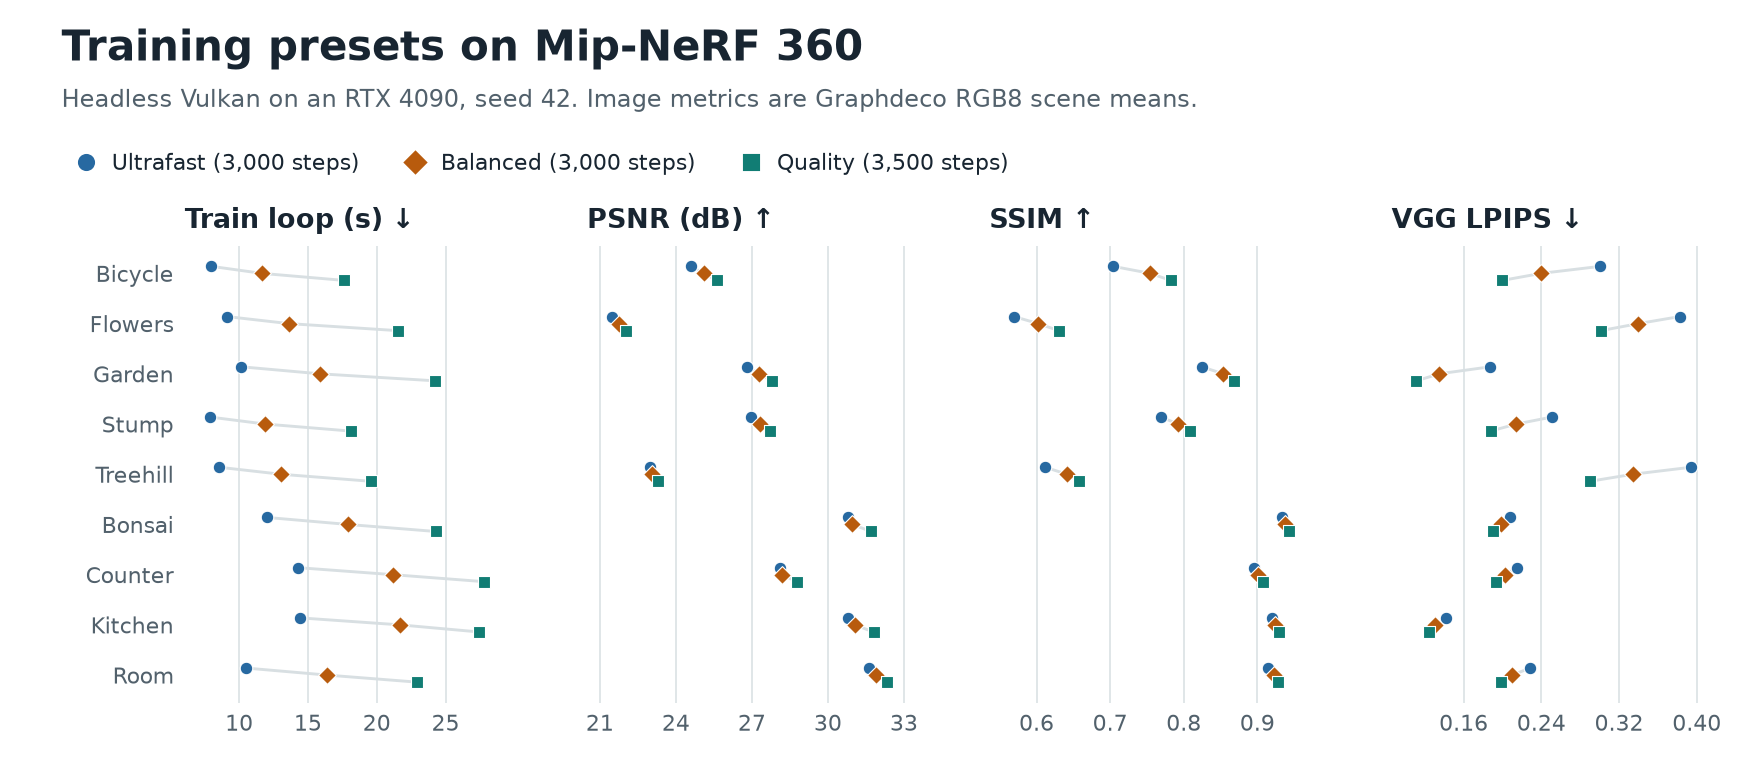
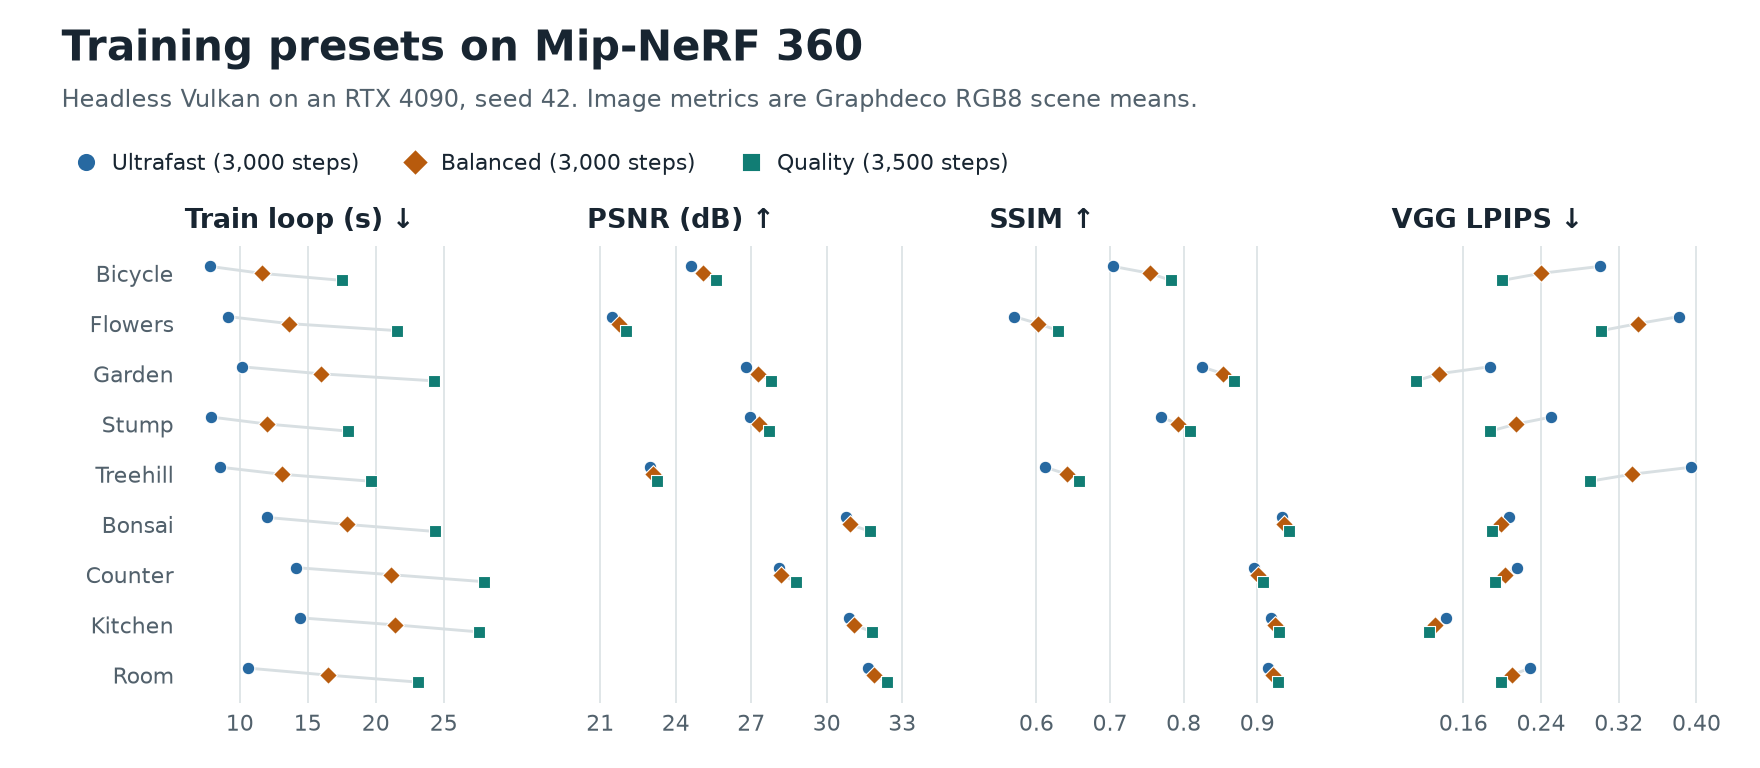
benchmarked again on 4090 + quality+ preset included

Changed region(s): [[0.4688, 0.8125, 0.5, 0.8438], [0.4688, 0.6562, 0.5, 0.6875], [0.4062, 0.4688, 0.4375, 0.5]]

diff --git a/scripts/plots/plot_qualityplus_convergence.py b/scripts/plots/plot_qualityplus_convergence.py
@@ -1,0 +1,104 @@
+# Copyright (c) 2026 Electronic Arts Inc. All rights reserved.
+
+"""Plot Quality+ training-view convergence and its held-out PSNR change from fixed Quality."""
+import argparse
+import csv
+import json
+import math
+from pathlib import Path
+
+from matplotlib.figure import Figure
+
+from plot_preset_results import HELDOUT_VIEWS
+
+ROOT = Path(__file__).resolve().parents[2]
+
+
+def scene_rows(path, preset):
+    with path.open(encoding="utf-8-sig", newline="") as stream:
+        rows = [row for row in csv.DictReader(stream) if row["preset"] == preset]
+    by_scene = {row["scene"]: row for row in rows}
+    if len(rows) != len(HELDOUT_VIEWS) or {
+        scene: int(row["heldout_views"]) for scene, row in by_scene.items()
+    } != HELDOUT_VIEWS:
+        raise ValueError(f"{path} needs one {preset} run for each standard held-out scene")
+    if any(not math.isfinite(float(row["psnr_db"])) for row in rows):
+        raise ValueError(f"Missing or invalid held-out PSNR in {path}")
+    return by_scene
+
+
+def probe_trace(run, row, start):
+    report = json.loads((run / "run_report.json").read_text(encoding="utf-8"))
+    with (run / "log.jsonl").open(encoding="utf-8") as stream:
+        probes = [event for event in map(json.loads, stream) if event["event"] == "convergence_probe"]
+    steps = int(row["steps"])
+    if (report["stop_reason"] != "plateau" or report["iters_completed"] != steps
+            or report["device"]["adapter_name"] != row["gpu"] or report["cli_args"]["preset"] != "quality+"
+            or report["cli_args"]["seed"] != int(row["seed"]) or report["scene"]["n_test"] != int(row["heldout_views"])
+            or not math.isclose(report["timing"]["train_wall_s"], float(row["train_loop_s"]))):
+        raise ValueError(f"{run} does not match its scored Quality+ run")
+    scene = report["scene"]
+    train_count = scene["n_train"]
+    expected_steps = range(start, steps + 1, max(100, 4 * train_count))
+    if not probes or [p["iter"] for p in probes] != list(expected_steps) or probes[-1]["iter"] != steps:
+        raise ValueError(f"Missing convergence checks in {run}")
+    cameras = probes[0]["train_indices"]
+    scores = [p["train_psnr_srgb"] for p in probes]
+    if (not all(map(math.isfinite, scores)) or probes[-1]["stale_checks"] != 3
+            or len(set(cameras)) != min(8, train_count) or set(cameras).intersection(scene["test_indices"])
+            or any(p["train_indices"] != cameras for p in probes)):
+        raise ValueError(f"Invalid training-view convergence trace in {run}")
+    return [(step - start) / train_count for step in expected_steps], [score - scores[0] for score in scores]
+
+
+def plot_convergence(presets_path, plus_path, sweep, output):
+    fixed = scene_rows(presets_path, "quality")
+    plus = scene_rows(plus_path, "quality+")
+    cards = {(row["gpu"], row["seed"]) for row in (*fixed.values(), *plus.values())}
+    starts = {int(row["steps"]) for row in fixed.values()}
+    if len(cards) != 1 or len(starts) != 1:
+        raise ValueError("Both CSVs must use one GPU and seed, and Quality must have a fixed step count")
+    gpu, seed = cards.pop()
+    start = starts.pop()
+    for scene in fixed:
+        for field in ("train_width", "train_height", "eval_width", "eval_height", "metric_source"):
+            if plus[scene][field] != fixed[scene][field]:
+                raise ValueError(f"Mismatched {field} for {scene}")
+
+    fig = Figure(figsize=(11.5, 4.8), layout="constrained")
+    trace, heldout = fig.subplots(1, 2)
+    fig.suptitle(f"Where Quality+ stops on Mip-NeRF 360 · {gpu.removeprefix('NVIDIA GeForce ')}",
+                 weight="bold", fontsize=17)
+    trace.set_title("Training views used for stopping")
+    for scene, color in (("bicycle", "#196b9b"), ("room", "#b85524")):
+        run = ROOT / "outputs/train" / f"sweep_{sweep}_{scene}_{seed}"
+        passes, gain = probe_trace(run, plus[scene], start)
+        trace.plot(passes, gain, color=color, label=scene.title(), lw=2)
+        trace.scatter(passes[-1], gain[-1], color=color, s=30, zorder=3)
+    trace.set_xlabel(f"Camera passes after step {start:,}")
+    trace.set_ylabel(f"Training PSNR gain since step {start:,} (dB)")
+    trace.legend(frameon=False)
+    trace.grid(axis="y", color="#eeeeee")
+
+    deltas = {scene: float(plus[scene]["psnr_db"]) - float(row["psnr_db"]) for scene, row in fixed.items()}
+    scenes = sorted(deltas, key=deltas.get)
+    heldout.barh([s.title() for s in scenes], [deltas[s] for s in scenes],
+                 color=["#21725c" if deltas[s] >= 0 else "#af5046" for s in scenes])
+    heldout.axvline(0, color="#303940", lw=1)
+    heldout.set_title("All official held-out views")
+    heldout.set_xlabel("Quality+ minus fixed Quality PSNR (dB)")
+    heldout.grid(axis="x", color="#eeeeee")
+    for axis in (trace, heldout):
+        axis.set_axisbelow(True)
+        axis.spines[["top", "right"]].set_visible(False)
+    fig.savefig(output, dpi=160, facecolor="white")
+
+
+if __name__ == "__main__":
+    parser = argparse.ArgumentParser(description=__doc__)
+    parser.add_argument("--presets", type=Path, required=True, help="Fixed-budget preset CSV")
+    parser.add_argument("--quality-plus", type=Path, required=True, help="Quality+ CSV for the same GPU and seed")
+    parser.add_argument("--sweep", required=True, help="Quality+ sweep name under outputs/eval_sweep")
+    parser.add_argument("--output", type=Path, required=True, help="Destination figure, e.g. a .png file")
+    args = parser.parse_args()
+    plot_convergence(args.presets, args.quality_plus, args.sweep, args.output)

diff --git a/docs/benchmarks.md b/docs/benchmarks.md
@@ -2,28 +2,31 @@
 
 ## RTX 4090 presets
 
-On the **RTX 4090 24 GB**, Quality averaged **27.89 dB in 22.61 s** with **2.10M final splats**. Compared with the previous Quality sweep on the same card, PSNR improved on all nine scenes by an average of 0.108 dB, final splat count fell 31.5%, and loop-end GPU memory fell 21.7%. [Current per-scene measurements](NVIDIA_GeForce_RTX_4090_presets_current.csv) · [Original per-scene measurements](NVIDIA_GeForce_RTX_4090_presets.csv)
+On the **RTX 4090 24 GB**, Quality averaged **27.90 dB in 22.68 s** with **2.10M final splats**. Compared with the original 3,000-step Quality sweep on the same card, PSNR improved on all nine scenes by an average of 0.113 dB, final splat count fell 31.6%, and loop-end GPU memory fell 21.7%. [Current per-scene measurements](NVIDIA_GeForce_RTX_4090_presets_current.csv) · [Original per-scene measurements](NVIDIA_GeForce_RTX_4090_presets.csv)
 
 | Preset | Steps | Train loop | PSNR ↑ | SSIM ↑ | VGG LPIPS ↓ | Final splats | VRAM at loop end |
 | --- | ---: | ---: | ---: | ---: | ---: | ---: | ---: |
-| Ultrafast | 3,000 | 10.54 s | 27.12 dB | 0.7935 | 0.2564 | 1.43M | 5.29 GiB |
-| Balanced | 3,000 | 15.92 s | 27.41 dB | 0.8143 | 0.2229 | 2.07M | 2.81 GiB |
-| **Quality** | **3,500** | **22.61 s** | **27.89 dB** | **0.8285** | **0.1996** | **2.10M** | **4.81 GiB** |
+| Ultrafast | 3,000 | 10.51 s | 27.13 dB | 0.7935 | 0.2564 | 1.43M | 5.29 GiB |
+| Balanced | 3,000 | 15.91 s | 27.40 dB | 0.8141 | 0.2228 | 2.07M | 2.81 GiB |
+| **Quality** | **3,500** | **22.68 s** | **27.90 dB** | **0.8285** | **0.1996** | **2.10M** | **4.81 GiB** |
+| Quality+ | 17,044 avg. | 122.66 s | 28.227 dB | 0.8317 | 0.1909 | 2.10M | 4.81 GiB |
 | Quality (previous) | 3,000 | 23.24 s | 27.79 dB | 0.8274 | 0.2011 | 3.07M | 6.14 GiB |
 
-Quality gained the most PSNR on Bonsai (+0.237 dB) and the least on Stump (+0.002 dB). SSIM improved on seven scenes, with small decreases on Stump (−0.00030) and Treehill (−0.00061). VGG LPIPS improved on eight scenes and rose by 0.00043 on Treehill. Six scenes trained faster. Counter, Kitchen and Room took 0.14, 0.23 and 0.02 s longer, respectively.
+Quality gained the most PSNR on Bonsai (+0.258 dB) and the least on Stump (+0.012 dB). SSIM improved on seven scenes, with small decreases on Stump (−0.00006) and Treehill (−0.00062). VGG LPIPS improved on seven scenes and rose slightly on Stump (+0.00001) and Treehill (+0.00021). Six scenes trained faster. Counter, Kitchen and Room took 0.31, 0.44 and 0.23 s longer, respectively.
 
-Quality's proposed splits exceeded the growth capacity at 11 of 27 structure updates. All nine runs reached their 75% retention target at step 2,100. All 27 runs across the three presets completed training and held-out rendering with zero sort overflows. Ultrafast and Balanced used their existing 3,000-step settings. They averaged 11.85 s and 17.31 s in the original sweep and 10.54 s and 15.92 s in this one, with mean PSNR changes of +0.021 and −0.010 dB, respectively.
+Quality's proposed splits exceeded the growth capacity at 11 of 27 structure updates. All nine runs reached their 75% retention target at step 2,100. All 27 fixed-budget runs completed training and held-out rendering with zero sort overflows. Ultrafast and Balanced used their existing 3,000-step settings. They averaged 11.85 s and 17.31 s in the original sweep and 10.51 s and 15.91 s in this one, with mean PSNR changes of +0.028 and −0.013 dB, respectively.
 
-Each preset trained once per scene at seed 42, using quarter resolution outdoors and half resolution indoors. The clock covers the headless Vulkan training loop and excludes loading, initialization, evaluation and export. VRAM is the trainer process’s local GPU memory sampled at loop end. Graphdeco scored 246 held-out RGB8 renders per preset. Each scene contributes equally to the means after averaging its held-out views.
+Quality+ reached its training-view plateau on all nine scenes, taking 8,652–21,996 steps. Compared with 3,500-step Quality, held-out PSNR rose by **0.326 dB** on average, with gains on six scenes. The four indoor scenes gained 0.687 dB on average and the five outdoor scenes gained 0.038 dB. SSIM improved on seven scenes and VGG LPIPS improved on all nine. The loop took 5.41× as long, including convergence checks. [Quality+ per-scene results](NVIDIA_GeForce_RTX_4090_qualityplus.csv) · [Convergence plot](../assets/qualityplus-convergence-4090.png) · [Stopping rule](usage.md#quality-convergence)
 
-Both sweeps used the same Lenovo workstation with a 32-core Threadripper PRO 9975WX, Windows 11 Enterprise, NVIDIA driver 610.88, SlangPy 0.42.0 and Python 3.11.9. Graphdeco evaluation used PyTorch 2.10.0+cu128 and torchvision 0.25.0+cu128. The current trainer revision is `da6b847`. [Current system record](NVIDIA_GeForce_RTX_4090_system_current.txt) · [Original system record](NVIDIA_GeForce_RTX_4090_system.txt) · [Reproduce the sweep](benchmark-rtx4090.md)
+Each preset trained once per scene at seed 42, using quarter resolution outdoors and half resolution indoors. The clock covers the headless Vulkan training loop and excludes loading, initialization, held-out evaluation and export. VRAM is the trainer process’s local GPU memory sampled at loop end. Graphdeco scored 246 held-out RGB8 renders per preset. Each scene contributes equally to the means after averaging its held-out views.
 
-![Training-loop time, PSNR, SSIM and VGG LPIPS by scene and preset on the RTX 4090](../assets/mipnerf360-rtx4090-presets.png)
+The sweeps used the same Lenovo workstation with a 32-core Threadripper PRO 9975WX, Windows 11 Enterprise, NVIDIA driver 610.88, SlangPy 0.42.0 and Python 3.11.9. Graphdeco evaluation used PyTorch 2.10.0+cu128 and torchvision 0.25.0+cu128. The current trainer revision is `d69f4f2`. [Current system record](NVIDIA_GeForce_RTX_4090_system_current.txt) · [Original system record](NVIDIA_GeForce_RTX_4090_system.txt) · [Reproduce the sweep](benchmark-rtx4090.md)
+
+![Training-loop time, PSNR, SSIM and VGG LPIPS by scene for the three fixed-budget presets on the RTX 4090](../assets/mipnerf360-rtx4090-presets.png)
 
 ### Pruning in Ultrafast and Balanced
 
-To test Quality’s post-growth pruning on the two 3,000-step presets, we retrained Bicycle and Kitchen at seed 42 with `--final-splat-fraction 0.75`. Each run used the corresponding default preset for all other training settings. Across those four pairs, pruning reduced final splat count by about 25% and shortened the measured loops by 0.28–0.62 s. SSIM fell and VGG LPIPS rose in every pair. PSNR fell slightly on Bicycle and rose slightly on Kitchen with both presets. Loop-end VRAM differed by at most 4 MiB. [Four pruned runs](mipnerf360_prune75_4090.csv) · [Matched default runs](NVIDIA_GeForce_RTX_4090_presets_current.csv)
+To test Quality’s post-growth pruning on the two 3,000-step presets, we retrained Bicycle and Kitchen at seed 42 with `--final-splat-fraction 0.75`. Each run used the corresponding default preset for all other training settings. Across those four pairs, pruning reduced final splat count by about 25% and shortened the measured loops by 0.28–0.62 s. SSIM fell and VGG LPIPS rose in every pair. PSNR fell slightly on Bicycle and rose slightly on Kitchen with both presets. Loop-end VRAM differed by at most 4 MiB. [Four pruned runs](mipnerf360_prune75_4090.csv) · [Matched default runs at da6b847](NVIDIA_GeForce_RTX_4090_presets_da6b847.csv)
 
 <a id="current-presets"></a>
 

diff --git a/docs/benchmark-rtx4090.md b/docs/benchmark-rtx4090.md
@@ -2,9 +2,9 @@
 
 The benchmark measures training-loop time, held-out image quality, final splat count and loop-end GPU memory on all nine Mip-NeRF 360 scenes. The current sweep uses each preset's default step count. The original 3,000-step sweep provides the baseline for comparing Quality recipes. [RTX 4090 comparison](benchmarks.md#rtx-4090-presets) · [Current per-scene CSV](NVIDIA_GeForce_RTX_4090_presets_current.csv) · [Original per-scene CSV](NVIDIA_GeForce_RTX_4090_presets.csv)
 
-For Quality+, add `-QualityPlusOnly` to the benchmark command below. This runs nine scenes until their training-view scores plateau. The separate `*_qualityplus.csv` records each scene’s actual step count and held-out scores. The loop clock includes the training-view checks.
+Quality+ runs each scene until training-view PSNR plateaus. Its CSV records the actual step count and held-out scores for each scene. The training-loop time includes the convergence checks. [Quality+ per-scene CSV](NVIDIA_GeForce_RTX_4090_qualityplus.csv)
 
-Run the commands from the repository root with the hub closed and the GPU idle. Both sweeps used the same RTX 4090 (24 GB) workstation with a 32-core Threadripper PRO 9975WX and Windows 11. [Current system record](NVIDIA_GeForce_RTX_4090_system_current.txt) · [Original system record](NVIDIA_GeForce_RTX_4090_system.txt)
+Run the commands from the repository root with the hub closed and the GPU idle. The published sweeps used the same RTX 4090 (24 GB) workstation with a 32-core Threadripper PRO 9975WX and Windows 11. [Current system record](NVIDIA_GeForce_RTX_4090_system_current.txt) · [Original system record](NVIDIA_GeForce_RTX_4090_system.txt)
 
 ## Set up once
 
@@ -23,18 +23,30 @@ python scripts/data/download_stbn.py
 
 ```powershell
 .\scripts\running\benchmark_presets.ps1 -ExpectedGpu 'NVIDIA GeForce RTX 4090'
+.\scripts\running\benchmark_presets.ps1 -ExpectedGpu 'NVIDIA GeForce RTX 4090' -QualityPlusOnly
 ```
 
-The sweep runs **27 fresh training processes** on a first pass. It reads the default step count from each preset. Expect **3,000** for Ultrafast and Balanced and **3,500** for Quality. Each preset uses seed 42 on all nine scenes, including flowers and treehill. It uses the stored quarter-resolution images outdoors and half-resolution images indoors. Every eighth camera is held out. Each preset must score all 246 held-out views.
+The first command runs the three fixed-budget presets in **27 fresh training processes** on a first pass. It reads each preset’s default step count. Expect **3,000** for Ultrafast and Balanced and **3,500** for Quality. The second command runs **nine Quality+ processes**. Each preset uses seed 42 on all nine scenes, including flowers and treehill. It uses the stored quarter-resolution images outdoors and half-resolution images indoors. Every eighth camera is held out. Each preset must score all 246 held-out views.
 
-Report **mean training-loop seconds per scene** and **Graphdeco RGB8 PSNR, SSIM and VGG LPIPS**. The clock excludes setup, evaluation and export. Average views within each scene, then give each of the nine scenes equal weight. The published sweep was interrupted after eight Ultrafast scenes finished. On the same workstation and trainer revision, the driver reused those eight completed runs and ran Room to finish Ultrafast. [Full protocol](mipnerf360_3k.md#reproduce-the-benchmark)
+Report **mean training-loop seconds per scene** and **Graphdeco RGB8 PSNR, SSIM and VGG LPIPS**. The clock excludes setup, held-out evaluation and export. Average views within each scene, then give each of the nine scenes equal weight. The benchmark driver can resume completed scenes on the same workstation and trainer revision. [Full protocol](mipnerf360_3k.md#reproduce-the-benchmark)
 
-The command writes two files under `outputs/benchmarks/NVIDIA_GeForce_RTX_4090/<revision>-<source hash>/`. The source hash includes local trainer and shader edits, so a patched checkout gets a separate run directory.
+The two commands write three files under `outputs/benchmarks/NVIDIA_GeForce_RTX_4090/<revision>-<source hash>/`. The source hash includes local trainer and shader edits, so a patched checkout gets a separate run directory.
 
-- `NVIDIA_GeForce_RTX_4090_presets.csv` — one measured row per scene and preset.
+- `NVIDIA_GeForce_RTX_4090_presets.csv` — one measured row per scene and fixed-budget preset.
+- `NVIDIA_GeForce_RTX_4090_qualityplus.csv` — one measured row per scene for Quality+.
 - `NVIDIA_GeForce_RTX_4090_system.txt` — workstation, driver, software versions and trainer revision.
 
 With Matplotlib installed, `python scripts/plots/plot_preset_results.py --presets docs/NVIDIA_GeForce_RTX_4090_presets_current.csv` prints the published means and regenerates the RTX 4090 chart. Pass the path to a new sweep's CSV to plot that run.
+
+The convergence plot also reads training-view PSNR from the Quality+ run directories. To regenerate it from a fresh run, substitute its sweep name and CSV paths in the published command below.
+
+```powershell
+python scripts/plots/plot_qualityplus_convergence.py `
+  --presets docs/NVIDIA_GeForce_RTX_4090_presets_current.csv `
+  --quality-plus docs/NVIDIA_GeForce_RTX_4090_qualityplus.csv `
+  --sweep 'mip360_NVIDIA_GeForce_RTX_4090_d69f4f2f355f_1e76c2ccbdf5_quality+' `
+  --output assets/qualityplus-convergence-4090.png
+```
 
 ## Interactive Stump demo
 

diff --git a/README.md b/README.md
@@ -4,8 +4,8 @@
 
 Run COLMAP on a folder of photos directly in the PERF-GS hub, or open an existing COLMAP scene. Then train a 3D Gaussian Splatting model with Slang on Vulkan or Direct3D 12.<br>
 On an **RTX 4090**:
-- *Quality* preset averages **27.89 dB PSNR in 22.61 seconds** across the nine Mip-NeRF 360 scenes.
-- *Ultrafast* preset averages **27.12 dB in 10.54 seconds** on the same card.<br>
+- *Quality* preset averages **27.90 dB PSNR in 22.68 seconds** across the nine Mip-NeRF 360 scenes.
+- *Ultrafast* preset averages **27.13 dB in 10.51 seconds** on the same card.<br>
 
 The **Quality+** preset continues training until PSNR on training views levels off. On an **RTX 4080**, it averaged **28.225 dB held-out PSNR** across the same nine scenes, with a mean training loop of **3 min 36 s**.
 
@@ -95,11 +95,12 @@ All headline results give equal weight to the nine Mip-NeRF 360 scenes. On the R
 
 | Preset | Steps | Training loop | PSNR ↑ | SSIM ↑ | VGG LPIPS ↓ | Final splats | VRAM at loop end |
 | --- | ---: | ---: | ---: | ---: | ---: | ---: | ---: |
-| Ultrafast | 3,000 | 10.54 s | 27.12 dB | 0.7935 | 0.2564 | 1.43M | 5.29 GiB |
-| Balanced (default) | 3,000 | 15.92 s | 27.41 dB | 0.8143 | 0.2229 | 2.07M | 2.81 GiB |
-| **Quality** | 3,500 | 22.61 s | 27.89 dB | 0.8285 | 0.1996 | 2.10M | 4.81 GiB |
+| Ultrafast | 3,000 | 10.51 s | 27.13 dB | 0.7935 | 0.2564 | 1.43M | 5.29 GiB |
+| Balanced (default) | 3,000 | 15.91 s | 27.40 dB | 0.8141 | 0.2228 | 2.07M | 2.81 GiB |
+| **Quality** | 3,500 | 22.68 s | 27.90 dB | 0.8285 | 0.1996 | 2.10M | 4.81 GiB |
+| **[Quality+](docs/NVIDIA_GeForce_RTX_4090_qualityplus.csv)** | [17,044 avg.](assets/qualityplus-convergence-4090.png) | 122.66 s | 28.227 dB | 0.8317 | 0.1909 | 2.10M | 4.81 GiB |
 
-Compared with the previous 3,000-step Quality preset on this 4090, the 3,500-step preset gained **0.11 dB** on average and improved PSNR on **all nine scenes**. Mean final splat count fell **31.5%**, from 3.07M to 2.10M. Mean loop time went from 23.24 s to 22.61 s. [Current 4090 CSV](docs/NVIDIA_GeForce_RTX_4090_presets_current.csv) · [Previous 4090 CSV](docs/NVIDIA_GeForce_RTX_4090_presets.csv)
+Compared with the previous 3,000-step Quality preset on this 4090, the 3,500-step preset gained **0.11 dB** on average and improved PSNR on **all nine scenes**. Mean final splat count fell **31.6%**, from 3.07M to 2.10M. Mean loop time went from 23.24 s to 22.68 s. [Current 4090 CSV](docs/NVIDIA_GeForce_RTX_4090_presets_current.csv) · [Previous 4090 CSV](docs/NVIDIA_GeForce_RTX_4090_presets.csv)
 
 Each row averages nine scenes equally, with one headless Vulkan run per scene at seed 42. Graphdeco scored 246 held-out views per preset at quarter resolution outdoors and half resolution indoors. Training-loop times exclude COLMAP reconstruction, loading, initialization, held-out evaluation and export. VRAM is process-local GPU memory sampled at loop end. [Reproduce the benchmark](docs/benchmark-rtx4090.md)
 
